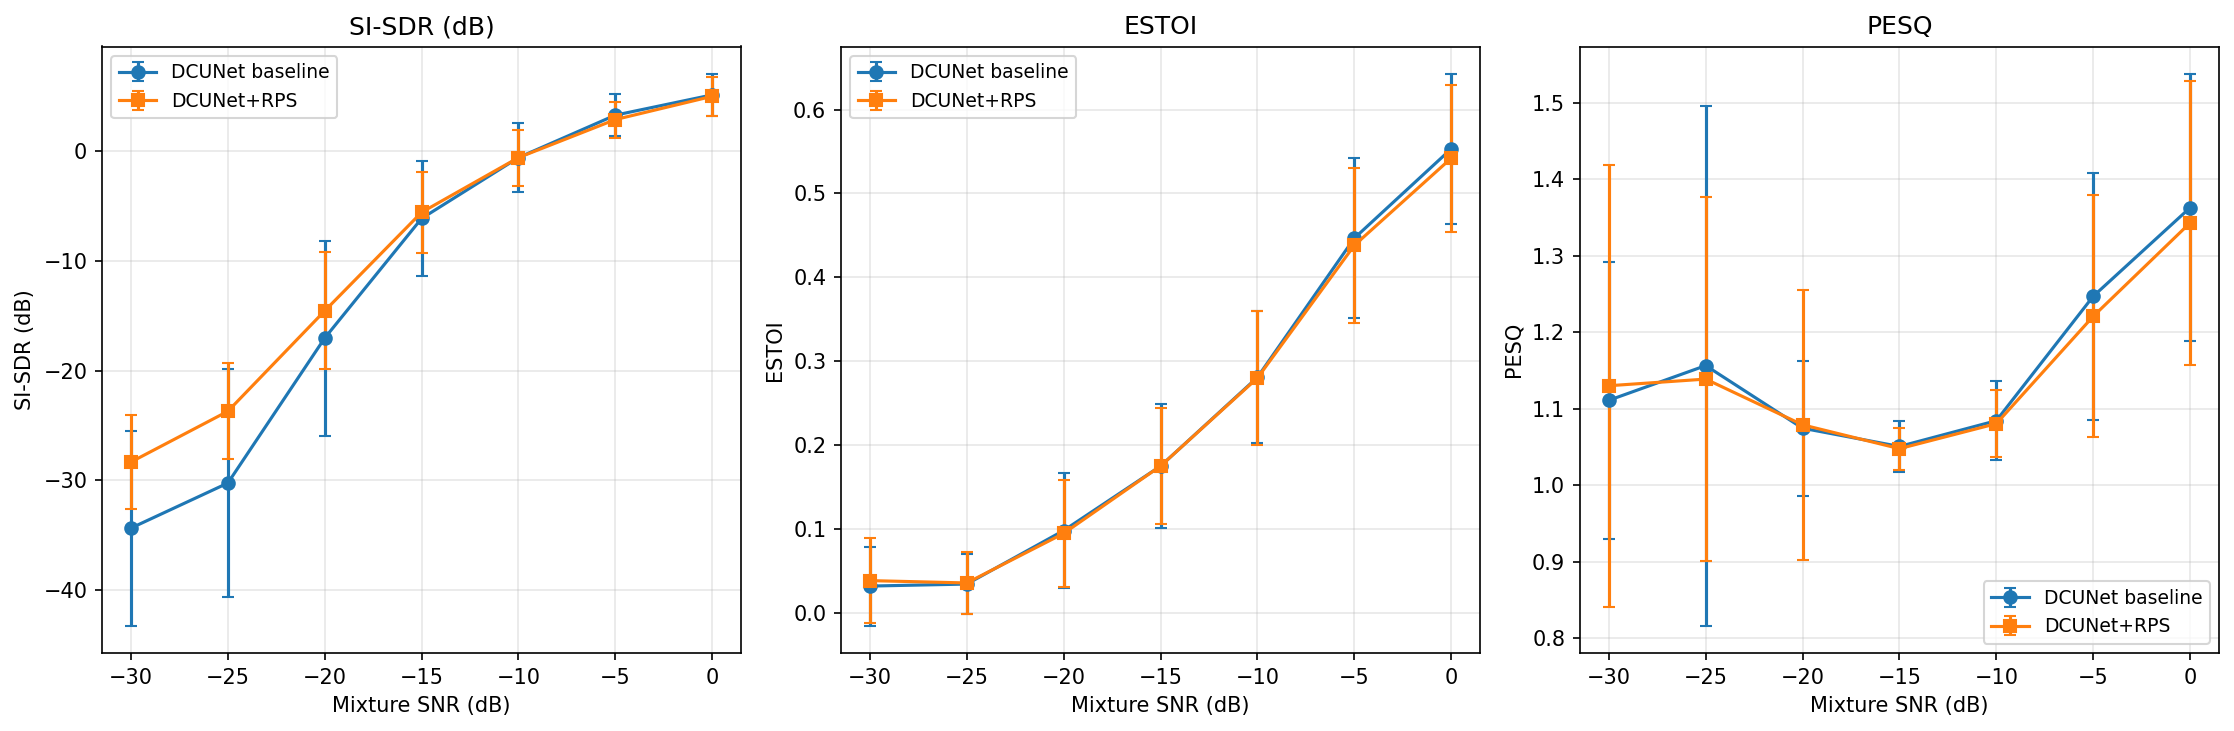
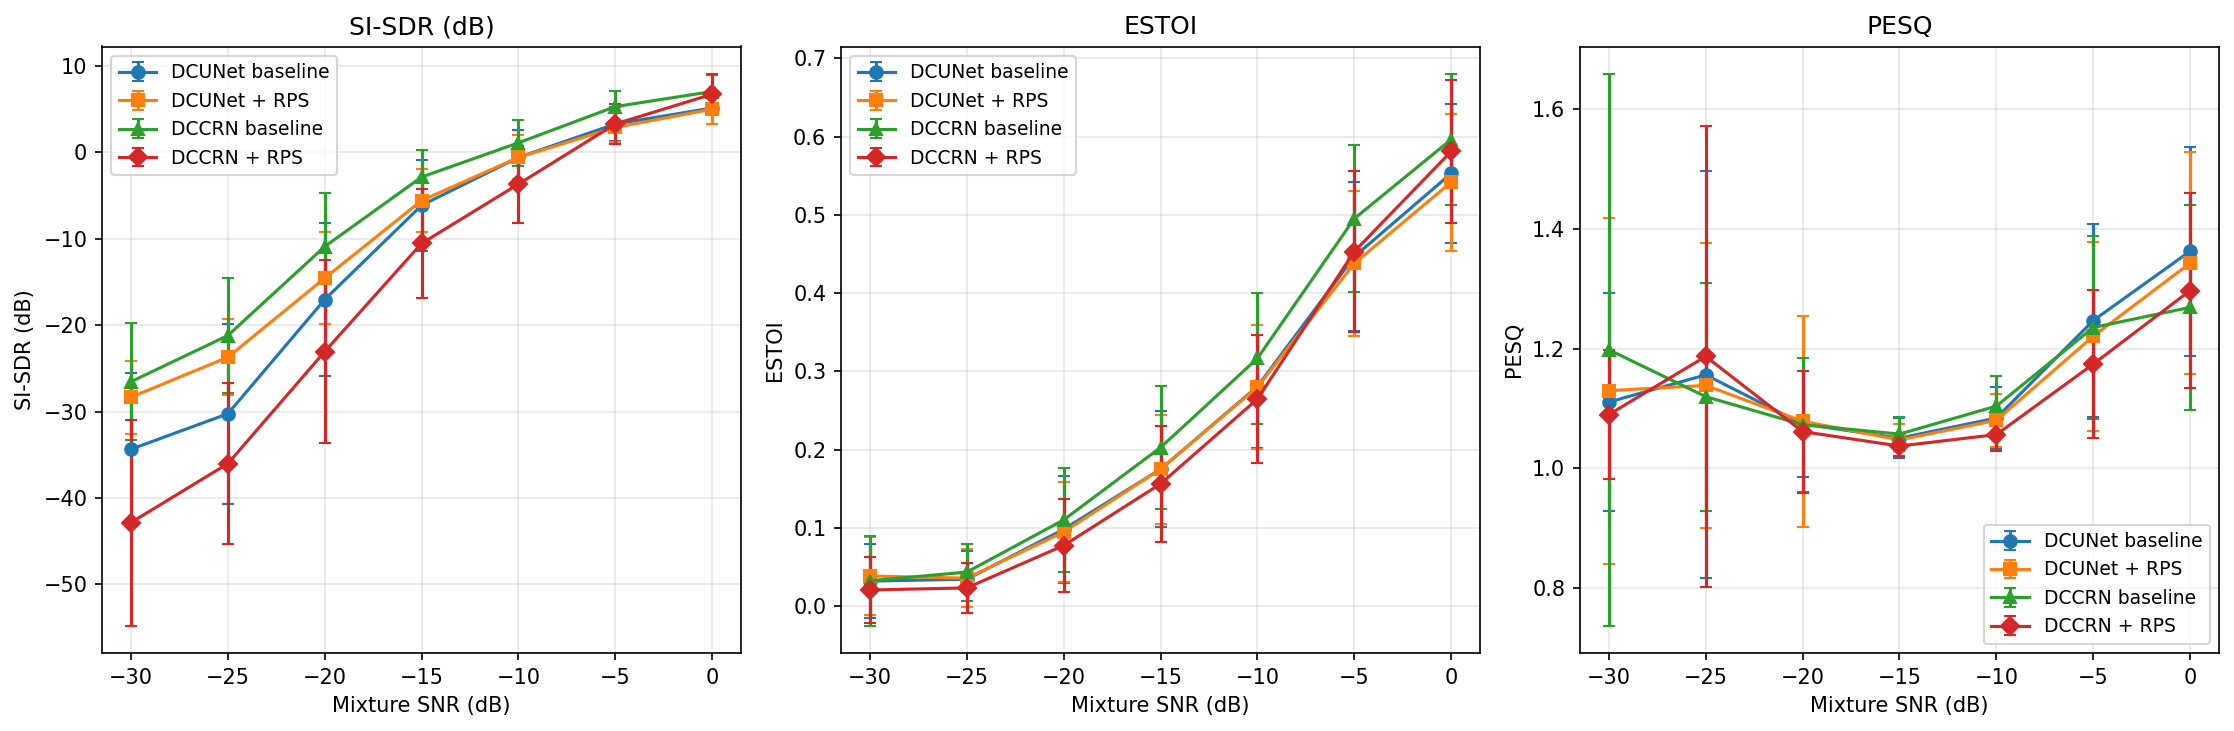
wowoowoow

diff --git a/src/postdoc/cli.py b/src/postdoc/cli.py
@@ -186,6 +186,82 @@ def job_logs(
                     typer.echo(data)
 
 
+@job_app.command("resume")
+def job_resume(
+    job_id: str = typer.Argument(..., help="Job ID to resume"),
+    override: list[str] | None = typer.Option(None, "--set", help="Config overrides as key=value (dot notation)"),
+    backend: str | None = _backend_option,
+):
+    """Resume a failed or cancelled job from its latest checkpoint."""
+    import yaml as _yaml
+    from postdoc.run_job import find_best_checkpoint
+
+    ctx = _get_ctx(backend)
+    try:
+        job = ctx.tracker.get_job(job_id)
+    except KeyError:
+        typer.echo(f"Job not found: {job_id}")
+        raise typer.Exit(1)
+
+    if job.state not in (JobState.FAILED,):
+        typer.echo(f"Cannot resume job in state '{job.state.value}'. Only failed jobs can be resumed.")
+        raise typer.Exit(1)
+
+    results_dir = Path(ctx.config.local.results_dir)
+    train_dir = results_dir / job_id / "training"
+    checkpoint = find_best_checkpoint(train_dir)
+    if checkpoint is None:
+        typer.echo(f"No checkpoint found in {train_dir}")
+        raise typer.Exit(1)
+
+    # Apply config overrides if any
+    resolved = results_dir / job_id / "config.yaml"
+    if override:
+        from postdoc.experiment import _set_nested
+        with open(resolved) as f:
+            cfg = _yaml.safe_load(f)
+        for item in override:
+            key, _, value = item.partition("=")
+            # Try to parse as number/bool
+            try:
+                value = int(value)
+            except ValueError:
+                try:
+                    value = float(value)
+                except ValueError:
+                    if value.lower() in ("true", "false"):
+                        value = value.lower() == "true"
+            _set_nested(cfg, key.strip().split("."), value)
+        with open(resolved, "w") as f:
+            _yaml.dump(cfg, f, default_flow_style=False)
+        typer.echo(f"Updated config: {', '.join(override)}")
+
+    # Retrieve wandb_run_id from the job record (if previously stored)
+    wandb_run_id = job.wandb_run_id
+
+    # Update manifest for resume
+    manifest_path = results_dir / job_id / "manifest.json"
+    manifest = json.loads(manifest_path.read_text())
+    manifest["start_checkpoint"] = str(checkpoint)
+    manifest["is_resume"] = True
+    if wandb_run_id:
+        manifest["wandb_run_id"] = wandb_run_id
+    manifest_path.write_text(json.dumps(manifest, indent=2))
+
+    # Resubmit
+    try:
+        result = ctx.scheduler.submit(job_id, resolved, manifest["experiment"])
+        ctx.tracker.update_state(
+            job_id, JobState.SUBMITTED,
+            process_handle=result.process_handle,
+            gpu_ids=result.gpu_ids,
+        )
+        typer.echo(f"Resumed job {job_id} from {checkpoint.name} on GPU {result.gpu_ids}")
+    except NoCapacityError:
+        ctx.tracker.update_state(job_id, JobState.QUEUED)
+        typer.echo(f"Queued job {job_id} for resume — no free GPUs")
+
+
 @job_app.command("cancel")
 def job_cancel(
     job_id: str = typer.Argument(..., help="Job ID"),

diff --git a/src/postdoc/run_job.py b/src/postdoc/run_job.py
@@ -63,6 +63,8 @@ def run_job(
     valid_path: list[Path],
     device_ids: list[int],
     start_checkpoint: Path | None = None,
+    is_resume: bool = False,
+    wandb_run_id: str | None = None,
 ) -> None:
     results_root = Path(storage.job_root_path(job_id))
     eval_only = experiment.get("eval_only", False)
@@ -91,15 +93,24 @@ def run_job(
             valid_path=valid_path,
             device_ids=device_ids,
             start_checkpoint=start_checkpoint,
+            wandb_run_id=wandb_run_id,
         )
         train_stdout = Path(storage.job_root_path(job_id)) / "training" / "logs" / "stdout.txt"
         train_stderr = Path(storage.job_root_path(job_id)) / "training" / "logs" / "stderr.txt"
         train_stdout.parent.mkdir(parents=True, exist_ok=True)
-        with open(train_stdout, "w") as out_f, open(train_stderr, "w") as err_f:
+        open_mode = "a" if is_resume else "w"
+        with open(train_stdout, open_mode) as out_f, open(train_stderr, open_mode) as err_f:
             train_result = subprocess.run(
                 [sys.executable, "-u", "train.py", *train_args],
                 stdout=out_f, stderr=err_f,
             )
+
+        # Pick up wandb run ID written by train.py and store in tracker
+        wandb_id_file = train_results / "wandb_run_id.txt"
+        if wandb_id_file.exists():
+            stored_wandb_id = wandb_id_file.read_text().strip()
+            if stored_wandb_id:
+                tracker.update_state(job_id, JobState.TRAINING, wandb_run_id=stored_wandb_id)
 
         if train_result.returncode != 0:
             stderr_text = train_stderr.read_text()
@@ -110,7 +121,7 @@ def run_job(
             )
             return
 
-        checkpoint = find_best_checkpoint(train_results / "checkpoints")
+        checkpoint = find_best_checkpoint(train_results)
         if checkpoint is None:
             tracker.update_state(
                 job_id, JobState.FAILED,
@@ -176,6 +187,8 @@ if __name__ == "__main__":
     ctx = create_context(config_path=Path(manifest["postdoc_config"]))
 
     start_ckpt = manifest.get("start_checkpoint")
+    is_resume = manifest.get("is_resume", False)
+    wandb_run_id = manifest.get("wandb_run_id")
 
     try:
         run_job(
@@ -188,6 +201,8 @@ if __name__ == "__main__":
             valid_path=[Path(p) for p in manifest["valid_path"]],
             device_ids=manifest["device_ids"],
             start_checkpoint=Path(start_ckpt) if start_ckpt else None,
+            is_resume=is_resume,
+            wandb_run_id=wandb_run_id,
         )
     finally:
         ctx.scheduler._release_gpu(manifest["job_id"])

diff --git a/train.py b/train.py
@@ -80,6 +80,7 @@ def parse_args(dict_args: Union[Dict, None]) -> argparse.Namespace:
     parser.add_argument("--metric_for_scheduler", default="sdr",
                         choices=['sdr', 'l1_freq', 'si_sdr', 'neg_log_wmse', 'aura_stft', 'aura_mrstft', 'bleedless',
                                  'fullness'], help='Metric which will be used for scheduler.')
+    parser.add_argument("--wandb_run_id", type=str, default='', help="Existing wandb run ID to resume logging into")
     parser.add_argument("--train_lora", action='store_true', help="Train with LoRA")
     parser.add_argument("--lora_checkpoint", type=str, default='', help="Initial checkpoint to LoRA weights")
 
@@ -150,7 +151,20 @@ def wandb_init(args: argparse.Namespace, config: Dict, device_ids: List[int], ba
     else:
         wandb.login(key=wandb_key)
         run_name = config.get('run_name') or None
-        wandb.init(entity='flyingleafe', project='msst', name=run_name, config={'config': config, 'args': args, 'device_ids': device_ids, 'batch_size': batch_size })
+        wandb_run_id = getattr(args, 'wandb_run_id', '') or None
+        init_kwargs: Dict = dict(
+            entity='flyingleafe', project='msst', name=run_name,
+            config={'config': config, 'args': args, 'device_ids': device_ids, 'batch_size': batch_size},
+        )
+        if wandb_run_id:
+            init_kwargs['id'] = wandb_run_id
+            init_kwargs['resume'] = 'must'
+        wandb.init(**init_kwargs)
+
+    # Write run ID to results dir so the job runner can pick it up
+    if wandb.run is not None and wandb.run.id and hasattr(args, 'results_path') and args.results_path:
+        run_id_path = Path(args.results_path) / "wandb_run_id.txt"
+        run_id_path.write_text(wandb.run.id)
 
 
 def prepare_data(config: Dict, args: argparse.Namespace, batch_size: int) -> DataLoader:

diff --git a/final_valid.py b/final_valid.py
@@ -273,8 +273,20 @@ def process_audio_files(
     channels = 2 if stereo else 1
     dummy_input = torch.randn(1, channels, segment_length).to(device)
 
-    flops, _ = profile(model, inputs=(dummy_input,), verbose=False)
-    model_flops = flops / 1e9  # Giga FLOPs
+    # Build dummy RPS input for RPS-conditioned models so profile() doesn't crash
+    profile_inputs = (dummy_input,)
+    use_rps = config.get('use_rps', False) or config.get('load_rps', False)
+    if use_rps:
+        rps_length = config.get('rps_length', 8500)
+        num_rotors = config.get('num_rotors', 4)
+        dummy_rps = torch.randn(1, num_rotors, rps_length).to(device)
+        profile_inputs = (dummy_input, dummy_rps)
+
+    try:
+        flops, _ = profile(model, inputs=profile_inputs, verbose=False)
+        model_flops = flops / 1e9  # Giga FLOPs
+    except Exception:
+        model_flops = 0.0  # Skip FLOPs counting if profile fails
     model.to(device)
 
     # Initialize results collection list

diff --git a/src/postdoc/experiment.py b/src/postdoc/experiment.py
@@ -35,6 +35,7 @@ def build_train_args(
     valid_path: list[Path],
     device_ids: list[int],
     start_checkpoint: Path | None = None,
+    wandb_run_id: str | None = None,
 ) -> list[str]:
     args = [
         "--model_type", experiment["model"]["type"],
@@ -47,6 +48,8 @@ def build_train_args(
         args.extend(["--valid_path", *[str(p) for p in valid_path]])
     if start_checkpoint:
         args.extend(["--start_check_point", str(start_checkpoint)])
+    if wandb_run_id:
+        args.extend(["--wandb_run_id", wandb_run_id])
     return args
 
 

diff --git a/src/postdoc/interfaces/tracker.py b/src/postdoc/interfaces/tracker.py
@@ -102,6 +102,11 @@ class JobTracker:
             sets.append(f"{ts_col} = ?")
             vals.append(datetime.now(timezone.utc).isoformat())
 
+        # When resuming from FAILED, clear error fields
+        if state in (JobState.SUBMITTED, JobState.QUEUED, JobState.TRAINING):
+            sets.extend(["error_category = ?", "error_message = ?", "failed_at = ?"])
+            vals.extend([None, None, None])
+
         for k, v in fields.items():
             if k == "gpu_ids":
                 sets.append("gpu_ids = ?")
